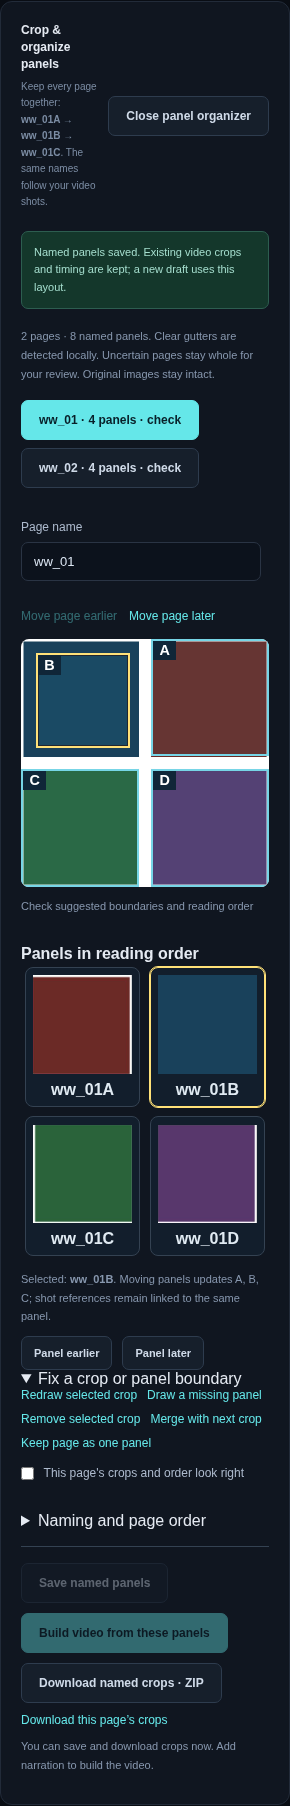
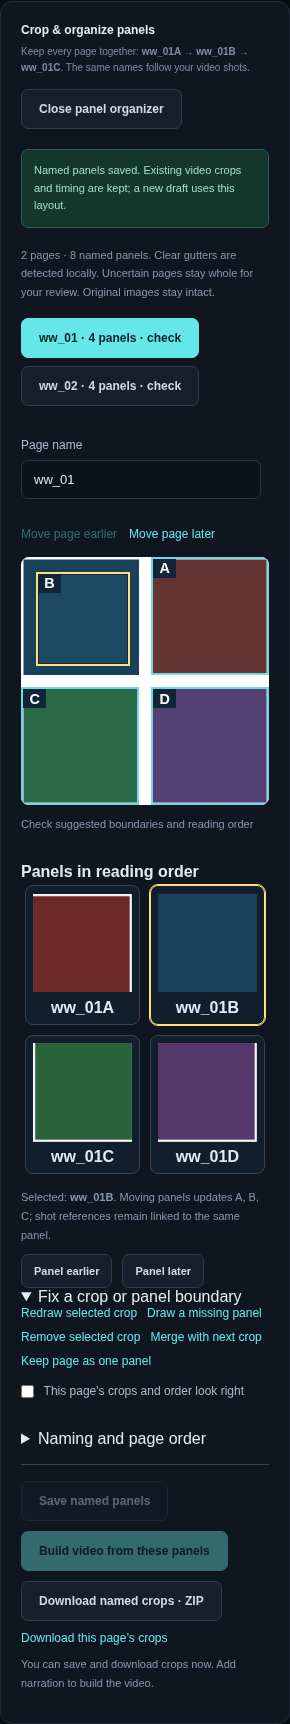
Keep panel organizer headings readable on narrow screens

diff --git a/frontend/src/styles.css b/frontend/src/styles.css
@@ -5936,3 +5936,19 @@ details[open] > .tool-disclosure-heading::after {
   width: auto;
   margin: 0;
 }
+.panel-organizer .section-heading {
+  flex-wrap: wrap;
+  align-items: flex-start;
+}
+.panel-organizer .section-heading > div {
+  flex: 1 1 260px;
+  min-width: 0;
+}
+@media (max-width: 720px) {
+  .panel-organizer .section-heading {
+    display: block;
+  }
+  .panel-organizer .section-heading > .button {
+    margin-top: 0.75rem;
+  }
+}
